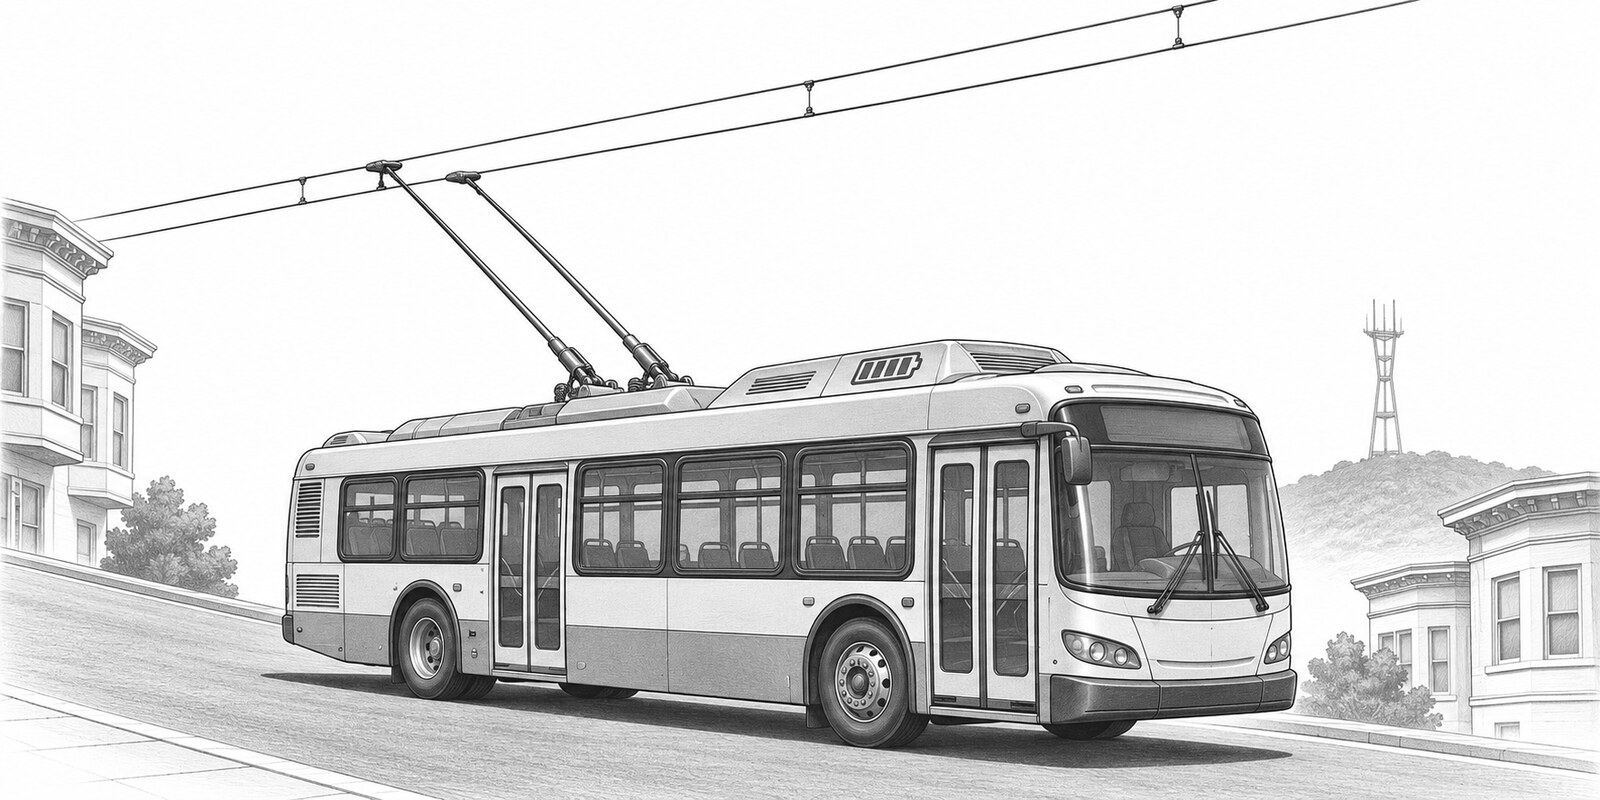
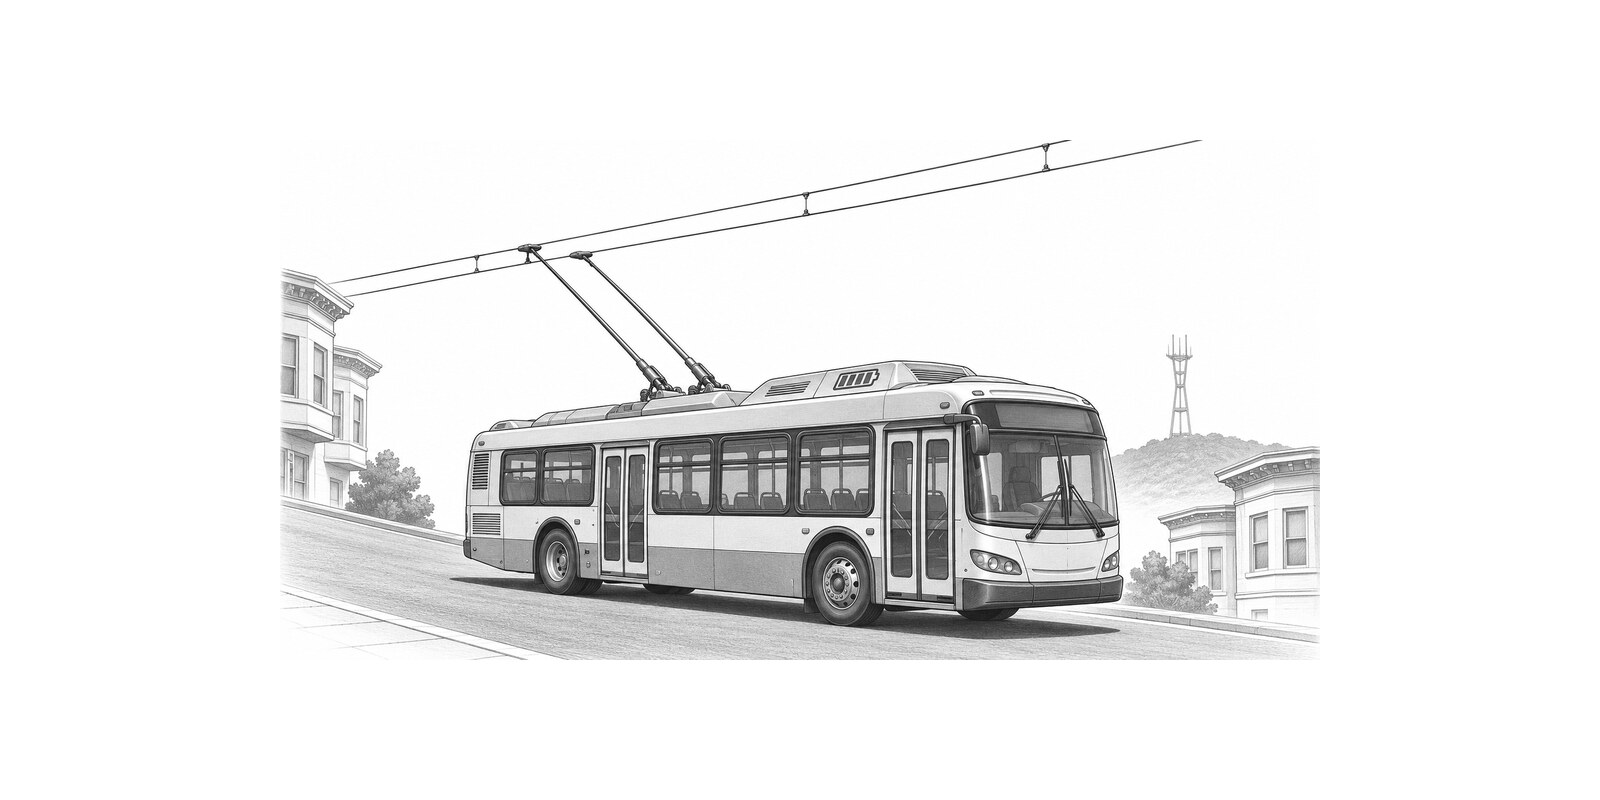
Preserve trolleybus wheels in OG full layout

diff --git a/docs/IMAGE_UPDATE_2026-11-03.md b/docs/IMAGE_UPDATE_2026-11-03.md
@@ -4,4 +4,4 @@ Built-in image generation was used. Final prompt:
 
 > Create an original monochrome technical-editorial engraving celebrating San Francisco’s still-operating electric trolleybuses. Show one modern rubber-tired city trolleybus in a clear three-quarter view on a steep but uncluttered San Francisco street, with two distinct trolley poles visibly touching paired overhead wires. It must unmistakably read as a bus, not a streetcar or cable car. Use crisp museum-catalogue black-ink and graphite engraving with broad clean grayscale tones suitable for e-paper and no pre-dithering. Compose as a wide 2:1 landscape; keep the complete bus, wheels, both poles and contacts inside the central 60 percent so a centered 4:3 crop preserves every identifying part. Generic interpretive vehicle, not an exact manufacturer portrait. No readable route number, branding, destination text, logos, pedestrians, color, watermark, border, excessive crosshatching or cable-car tracks.
 
-Exports: `san-francisco-trolleybuses-master-2x1.jpg` (1600×800) and `san-francisco-trolleybuses-standard-4x3.jpg` (1067×800), grayscale JPEG quality 88. Both use white containment; the legacy image mirrors the standard export. Hosted OG 1-bit and X 4-bit layouts remain the final readability gate.
+Exports: `san-francisco-trolleybuses-master-2x1.jpg` (1600×800) and `san-francisco-trolleybuses-standard-4x3.jpg` (1067×800), grayscale JPEG quality 88. Both use white containment; the legacy image mirrors the standard export. The first hosted OG Full render cropped the wheel bottoms. The final wide export therefore contains the source at 1040×520 on the 1600×800 canvas, adding cover-crop breathing room without changing the detailed standard asset. A fresh hosted 12-layout review is required.

diff --git a/docs/IMAGE_WORKFLOW.md b/docs/IMAGE_WORKFLOW.md
@@ -2,7 +2,7 @@
 
 ## 3 November 2026 — San Francisco Trolleybuses
 
-Original built-in generated artwork: `san-francisco-trolleybuses-master-2x1.jpg` (1600×800) and `san-francisco-trolleybuses-standard-4x3.jpg` (1067×800) under `assets/exhibits/responsive-v2/`; the legacy path mirrors the standard export. White contain exports preserve the complete bus, wheels, both trolley poles and wire contacts. The generic vehicle is not an exact New Flyer product portrait. Complete prompt and export decisions: [image update](IMAGE_UPDATE_2026-11-03.md).
+Original built-in generated artwork: `san-francisco-trolleybuses-master-2x1.jpg` (1600×800) and `san-francisco-trolleybuses-standard-4x3.jpg` (1067×800) under `assets/exhibits/responsive-v2/`; the legacy path mirrors the standard export. White contain exports preserve the complete bus, wheels, both trolley poles and wire contacts. Hosted review found the first wide export lost the wheels in OG Full, so the final master contains a 1040×520 safe image on the 1600×800 canvas. The generic vehicle is not an exact New Flyer product portrait. Complete prompt and export decisions: [image update](IMAGE_UPDATE_2026-11-03.md).
 
 ## 2 November 2026 — Typewriters
 
